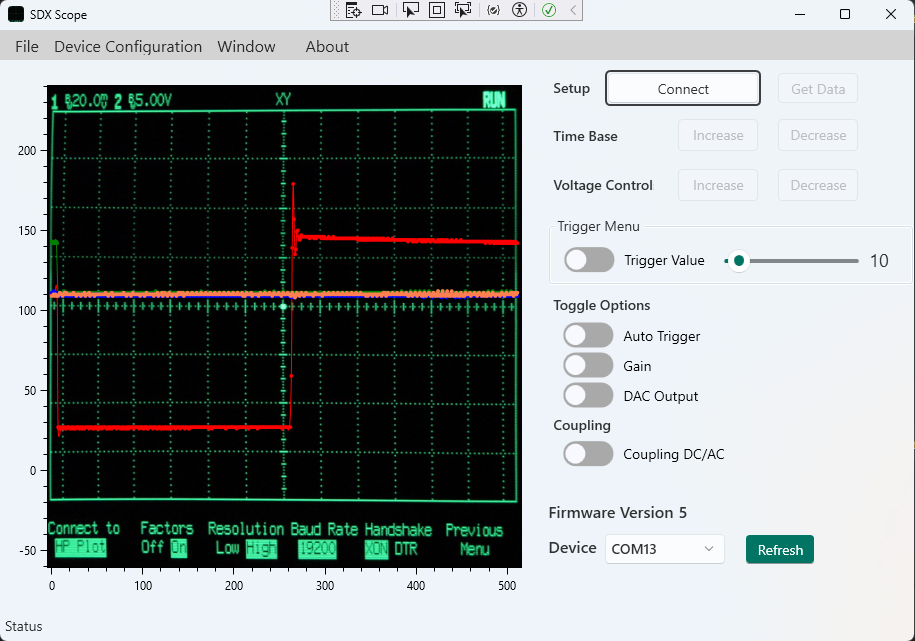
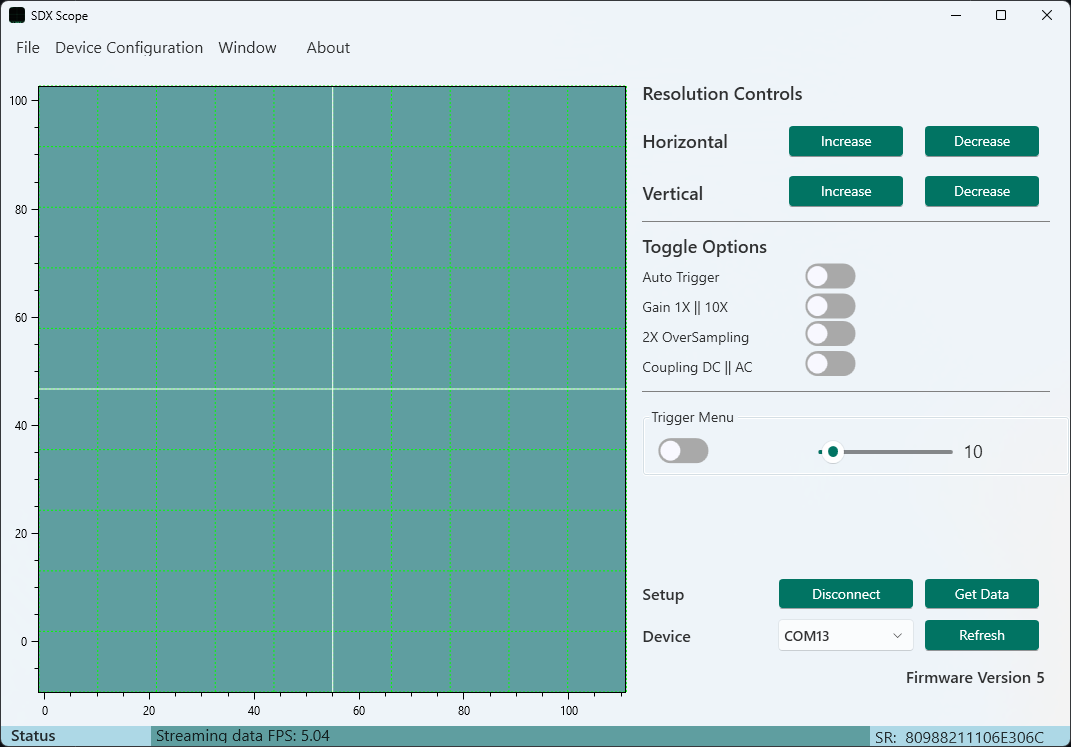
Xaml Improvements

diff --git a/SdxScope/MainWindow.xaml b/SdxScope/MainWindow.xaml
@@ -198,7 +198,9 @@
                     <RowDefinition Height="50" />
                     <RowDefinition Height="50" />
                     <RowDefinition Height="50" />
-                    <RowDefinition Height="180" />
+                    <RowDefinition Height="20" />
+                    <RowDefinition Height="150" />
+                    <RowDefinition Height="20" />
                     <RowDefinition Height="80" />
                     <RowDefinition Height="*" />
                     <RowDefinition Height="150" />
@@ -273,7 +275,13 @@
                         Content="Decrease"
                         Style="{StaticResource AccentButtonStyle}" />
                 </Grid>
-                <Grid Grid.Row="3" Margin="0,25,20,0">
+                <Separator
+                    Grid.Row="3"
+                    Height="1"
+                    Margin="0,0,10,0"
+                    HorizontalAlignment="Stretch"
+                    BorderBrush="Gray" />
+                <Grid Grid.Row="4" Margin="0,0,20,0">
                     <Grid.ColumnDefinitions>
                         <ColumnDefinition Width=".2*" />
                         <ColumnDefinition Width=".3*" />
@@ -341,8 +349,14 @@
                         Content="Coupling DC/AC"
                         Style="{StaticResource ToggleSwitchStyle}" />
                 </Grid>
+                <Separator
+                    Grid.Row="5"
+                    Height="1"
+                    Margin="0,0,10,0"
+                    HorizontalAlignment="Stretch"
+                    BorderBrush="Gray" />
                 <GroupBox
-                    Grid.Row="4"
+                    Grid.Row="6"
                     Margin="0,5,0,5"
                     Header="Trigger Menu">
                     <StackPanel Margin="0,0,0,0" Orientation="Vertical">
@@ -377,9 +391,9 @@
                         </StackPanel>
                     </StackPanel>
                 </GroupBox>
-                <StackPanel Grid.Row="5" />
+                <StackPanel Grid.Row="7" />
                 <StackPanel
-                    Grid.Row="6"
+                    Grid.Row="8"
                     Margin="0,0,0,30"
                     VerticalAlignment="Bottom">
                     <Grid Margin="0,10,20,0">
@@ -514,8 +528,10 @@
                 <TextBlock
                     Margin="5,0,0,3"
                     VerticalAlignment="Center"
-                    FontSize="16"
-                    Text="{Binding BoardHandle.BoardUniqueId, Mode=OneWay}" />
+                    FontSize="16">
+                    <TextBlock Text="SR: " />
+                    <TextBlock Text="{Binding BoardHandle.BoardUniqueId, Mode=OneWay}" />
+                </TextBlock>
             </StackPanel>
 
         </Grid>
